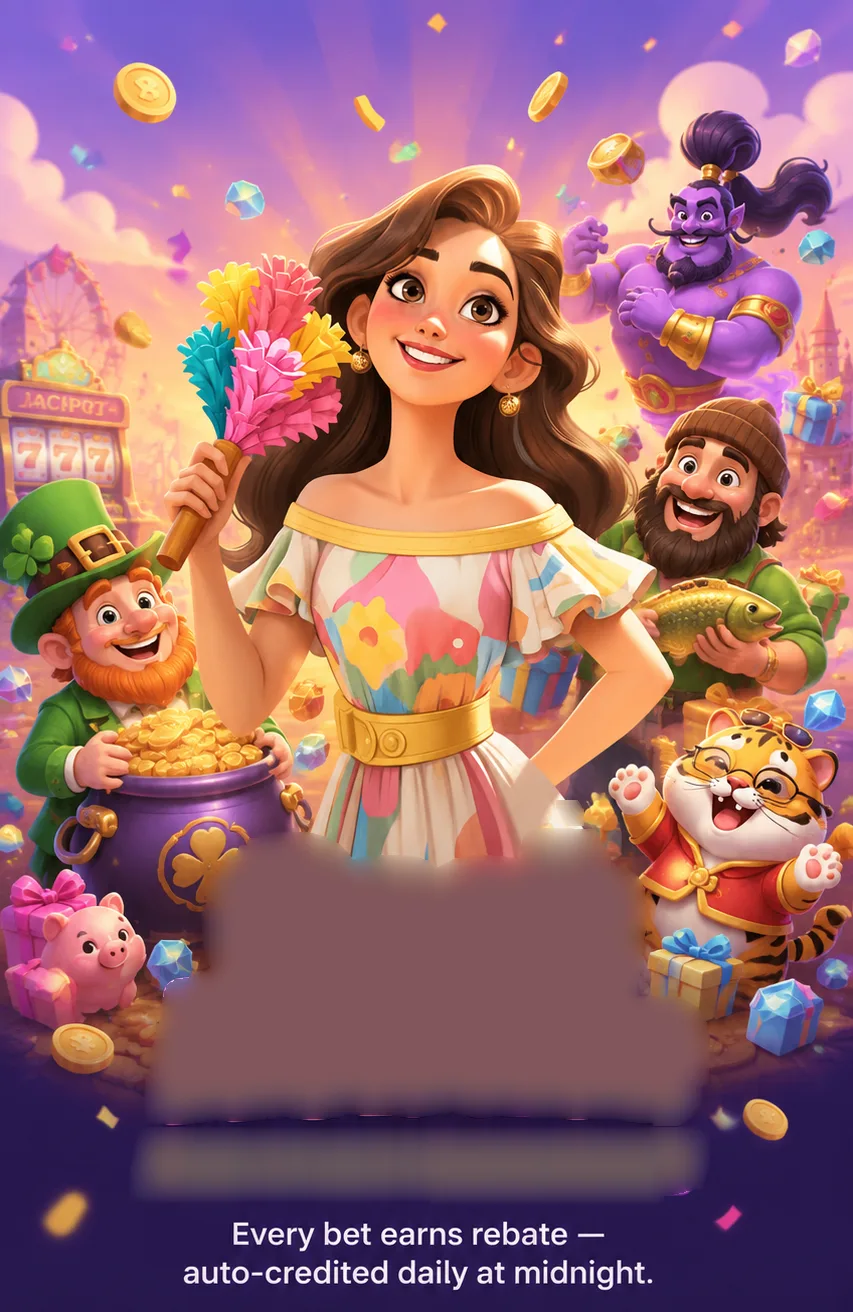
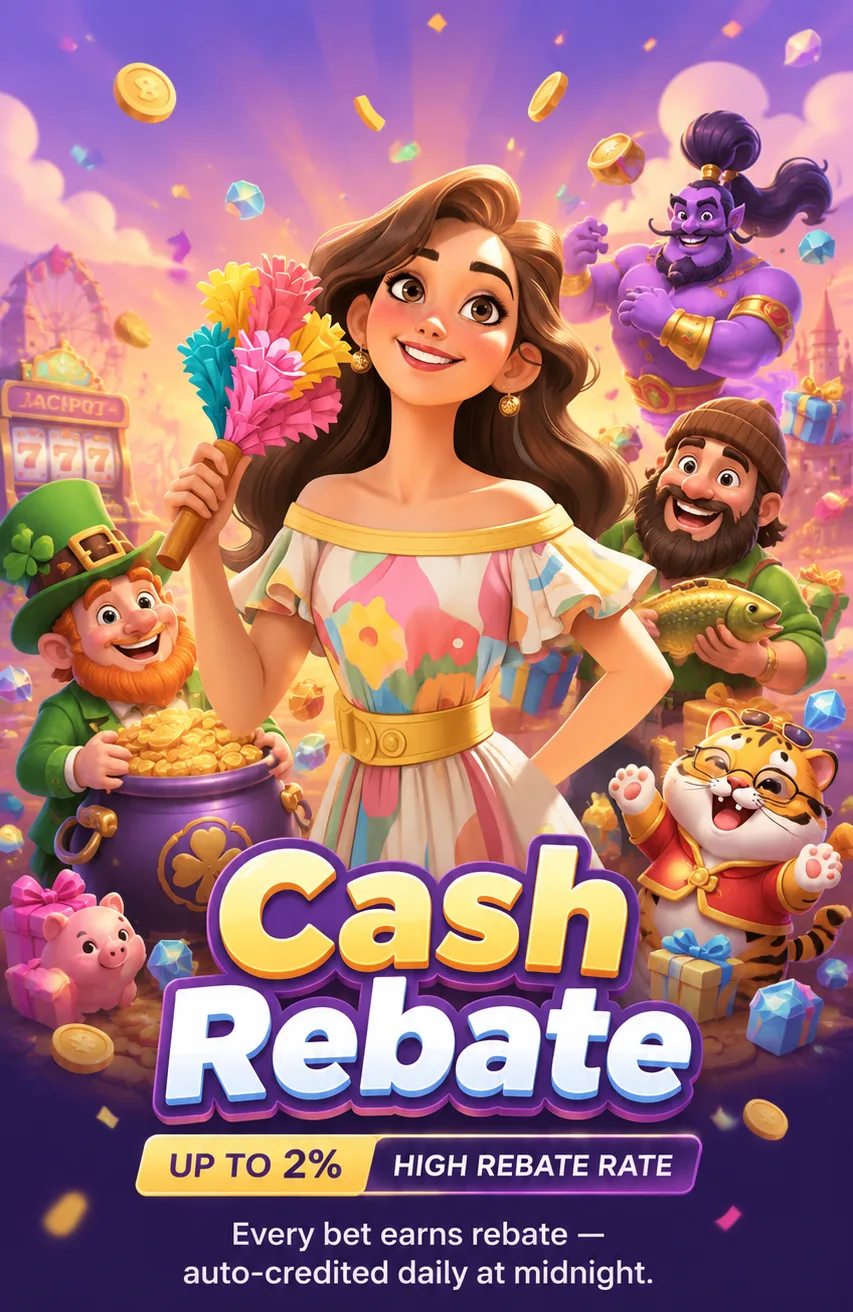
移除Rebate页Cash Rebate标题缩放动效：恢复单张hero图,删标题图层资源与rbTitleZoom

Changed region(s): [[0.1524, 0.5938, 0.823, 0.9375]]

diff --git a/apps/web-tma/src/views/RebatePage.tsx b/apps/web-tma/src/views/RebatePage.tsx
@@ -9,7 +9,6 @@ import { localizedGameName } from '@/utils/game'
 import { ApiError } from '@/api/client'
 import { analytics } from '@/utils/analytics'
 import rebateHero from '@/assets/home/promos/rebate-hero-purple.webp'
-import rebateHeroTitle from '@/assets/home/promos/rebate-hero-title.webp'
 
 const CATEGORY_ICONS: Record<string, string> = {
   slots: '🎰', live: '🎲', sports: '⚽', fishing: '🐟',
@@ -282,22 +281,13 @@ export default function RebatePage({ onOpenGame, onOpenCategory }: Props) {
 
   return (
     <div className="page-main pb-8 min-h-screen bg-[#0f0a1d]">
-      {/* Hero —— 设计稿成品图贴顶（含标题/徽章/副标题）+ 粒子层 */}
-      <div className="relative">
-        <img
-          src={rebateHero}
-          alt={t('cashback.pageTitle')}
-          className="block w-full select-none"
-          draggable={false}
-        />
-        <img
-          src={rebateHeroTitle}
-          alt=""
-          className="rb-title-zoom absolute select-none pointer-events-none"
-          style={{ left: '13.6%', top: '60.97%', width: '73.15%' }}
-          draggable={false}
-        />
-      </div>
+      {/* Hero —— 设计稿成品图贴顶（含标题/徽章/副标题） */}
+      <img
+        src={rebateHero}
+        alt={t('cashback.pageTitle')}
+        className="block w-full select-none"
+        draggable={false}
+      />
 
       {/* 内容区背景与 hero 裁剪线无缝衔接 */}
       <div style={{ background: 'linear-gradient(180deg,#26174c 0%,#1c0e38 40%,#150c28 72%,#0f0a1d 100%)' }}>

diff --git a/apps/web-tma/src/styles/index.css b/apps/web-tma/src/styles/index.css
@@ -173,12 +173,9 @@
 .task-sheet-in { animation: taskSheetIn 0.28s ease-out both; }
 
 /* ============ Rebate 页动效（rb- 前缀） ============ */
-/* hero 标题图层（Cash Rebate + UP TO 2% 徽章切图）呼吸缩放 */
-.rb-title-zoom { will-change: transform; }
 .rb-progress-fill { position: relative; overflow: hidden; }
 .rb-shine { position: relative; overflow: hidden; }
 @media (prefers-reduced-motion: no-preference) {
-  .rb-title-zoom { animation: rbTitleZoom 3.2s ease-in-out infinite; }
   .rb-claim-live { animation: rbClaimPulse 2s ease-in-out infinite, rbWiggle 4.5s ease-in-out 1.2s infinite; }
   .rb-spin-burst { animation: rbSpinBurst 8s ease-in-out infinite; }
   .rb-breathe { animation: rbBreathe 2.4s ease-in-out infinite; }
@@ -204,10 +201,6 @@
     transform: translateX(-160%) skewX(-12deg);
     animation: rbShine 4.2s ease-in-out infinite;
   }
-}
-@keyframes rbTitleZoom {
-  0%, 100% { transform: scale(1); }
-  50% { transform: scale(1.05); }
 }
 @keyframes rbClaimPulse {
   0%, 100% { box-shadow: 0 3px 14px rgba(207, 160, 68, 0.45); }
